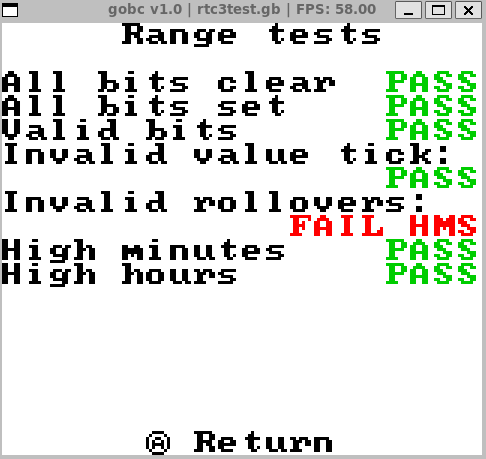
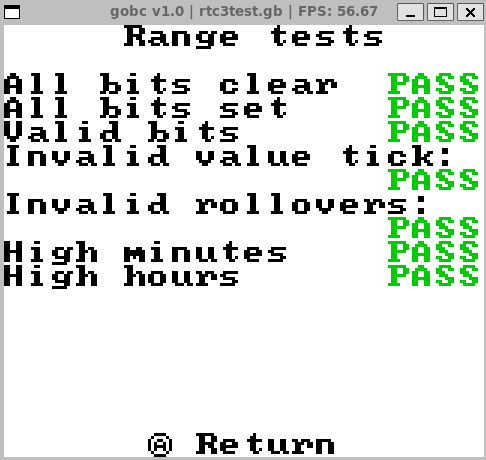
Commit Message: "Refactor RTC module and improve time tracking logic"
Added:
- Added constants for time masks and maximum time units at the top of the file for better visibility and organization.
- Added bitwise operations to ensure time values stay within their respective ranges after incrementing.

Changed:
- Moved the increment logic for minutes and hours into their respective overflow checks to simplify the code.
- Removed redundant else branches in the Tick function.
- Removed some debug logging statements to clean up the code.

Removed:
- Removed duplicate constant declarations.
- Removed the latchedDayCounter function as it was not being used.
- Removed commented out overflow checks in the Tick function.
- Removed some debug logging statements.

diff --git a/internal/cartridge/rtc.go b/internal/cartridge/rtc.go
@@ -12,6 +12,25 @@ const (
 
 	TIMER_HALT_BIT  = 6
 	TIMER_CARRY_BIT = 7
+
+	MaskS  = 0b00111111
+	MaskM  = 0b00111111
+	MaskH  = 0b00011111
+	MaskDL = 0b11111111
+	MaskDH = 0b11000001
+
+	MAX_SECONDS = 60
+	MAX_MINUTES = 60
+	MAX_HOURS   = 24
+	MAX_DL      = 255
+	MAX_DH      = 1
+)
+
+const (
+	SEC = iota
+	MIN
+	HOUR
+	DAY
 )
 
 type RTC struct {
@@ -133,20 +152,6 @@ func (r *RTC) GetItem(id uint16) uint8 {
 	return 0xFF
 }
 
-const (
-	MaskS  = 0b00111111
-	MaskM  = 0b00111111
-	MaskH  = 0b00011111
-	MaskDL = 0b11111111
-	MaskDH = 0b11000001
-
-	MAX_SECONDS = 60
-	MAX_MINUTES = 60
-	MAX_HOURS   = 24
-	MAX_DL      = 255
-	MAX_DH      = 1
-)
-
 func (r *RTC) SetItem(id uint16, value uint8) {
 	// logger.Debugf("Setting RTC item %#x to %#x", id, value)
 
@@ -156,24 +161,19 @@ func (r *RTC) SetItem(id uint16, value uint8) {
 		r.S = value & MaskS
 		// logger.Debugf("Resetting RTC")
 		r.internalCycleCounter = 0 // reset internal cycle counter
-		logger.Debugf("S: %d", r.s)
 
 	case 0x9:
 		r.m = value & MaskM
 		r.M = value & MaskM
-		logger.Debugf("M: %d", r.m)
 	case 0xA:
 		r.h = value & MaskH
 		r.H = value & MaskH
-		logger.Debugf("H: %d", r.h)
 	case 0xB:
 		r.dl = value & MaskDL
 		r.DL = value & MaskDL
-		logger.Debugf("DL: %d", r.dl)
 	case 0xC:
 		r.dh = value & MaskDH
 		r.DH = value & MaskDH
-		logger.Debugf("DH: %d", r.dh%0x1)
 	}
 }
 
@@ -181,20 +181,9 @@ func (r *RTC) internalDayCounter() uint16 {
 	return uint16(r.dh&0x1)<<8 | uint16(r.dl)
 }
 
-func (r *RTC) latchedDayCounter() uint16 {
-	return uint16(r.DH&0x1)<<8 | uint16(r.DL)
-}
-
 func (r *RTC) isDayCounterOverflow() bool {
 	return r.internalDayCounter() > 0x1FF
 }
-
-const (
-	SEC = iota
-	MIN
-	HOUR
-	DAY
-)
 
 func (r *RTC) Tick(cycles uint64) {
 	if internal.IsBitSet(r.dh, TIMER_HALT_BIT) {
@@ -204,19 +193,7 @@ func (r *RTC) Tick(cycles uint64) {
 	r.internalCycleCounter += cycles
 
 	if r.internalCycleCounter >= RTCCycles {
-		logger.Debugf("-----------------TICK------------------")
-		logger.Debugf("PRE: D: %d (%d:%d) H: %d M: %d S: %d", r.internalDayCounter(), r.dh, r.dl, r.h, r.m, r.s)
 
-		// check for overflow first
-		// if r.s > MAX_SECONDS {
-		// 	r.s = 0
-		// }
-		// if r.m > MAX_MINUTES {
-		// 	r.m = 0
-		// }
-		// if r.h > MAX_HOURS {
-		// 	r.h = 0
-		// }
 		var overflow uint8 = 0 // bit 0: seconds, bit 1: minutes, bit 2: hours, bit 3: day counter
 
 		r.s++
@@ -230,8 +207,6 @@ func (r *RTC) Tick(cycles uint64) {
 			if r.m == MAX_MINUTES {
 				r.m = 0
 				internal.SetBit(&overflow, MIN)
-			} else {
-				r.m++
 			}
 		}
 
@@ -240,8 +215,6 @@ func (r *RTC) Tick(cycles uint64) {
 			if r.h == MAX_HOURS {
 				r.h = 0
 				internal.SetBit(&overflow, HOUR)
-			} else {
-				r.h++
 			}
 		}
 
@@ -260,7 +233,9 @@ func (r *RTC) Tick(cycles uint64) {
 			}
 		}
 
-		logger.Debugf("POST: D: %d (%d:%d) H: %d M: %d S: %d", r.internalDayCounter(), r.dh, r.dl, r.h, r.m, r.s)
+		r.s &= MaskS
+		r.m &= MaskM
+		r.h &= MaskH
 
 		// set day carry flag if day counter overflows
 		if r.isDayCounterOverflow() {
